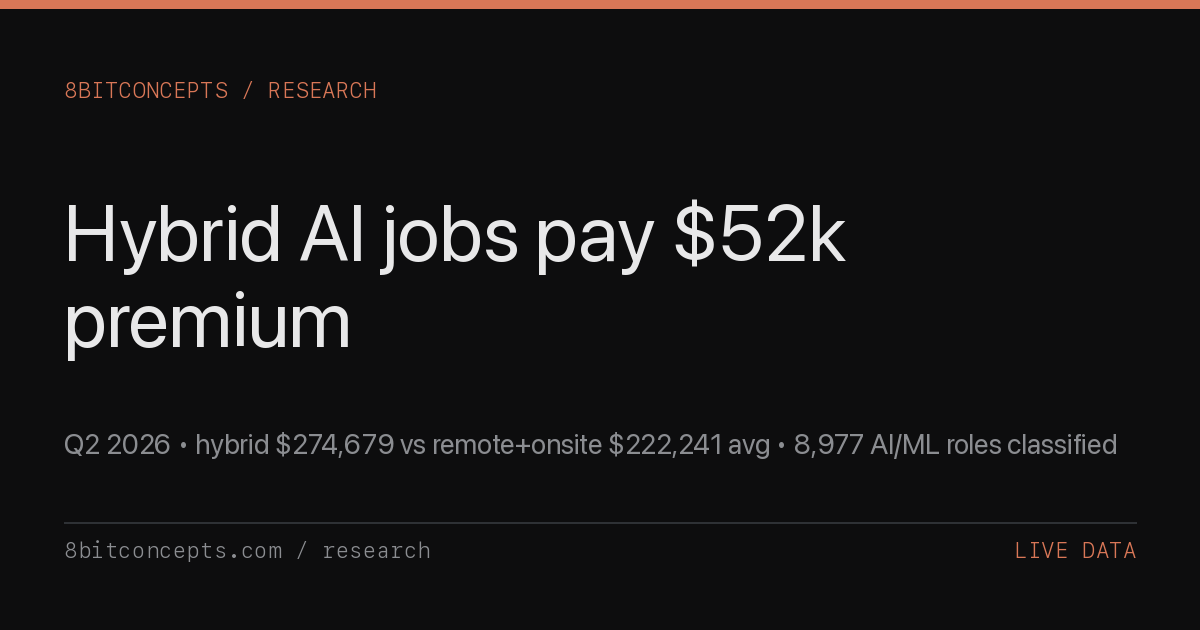
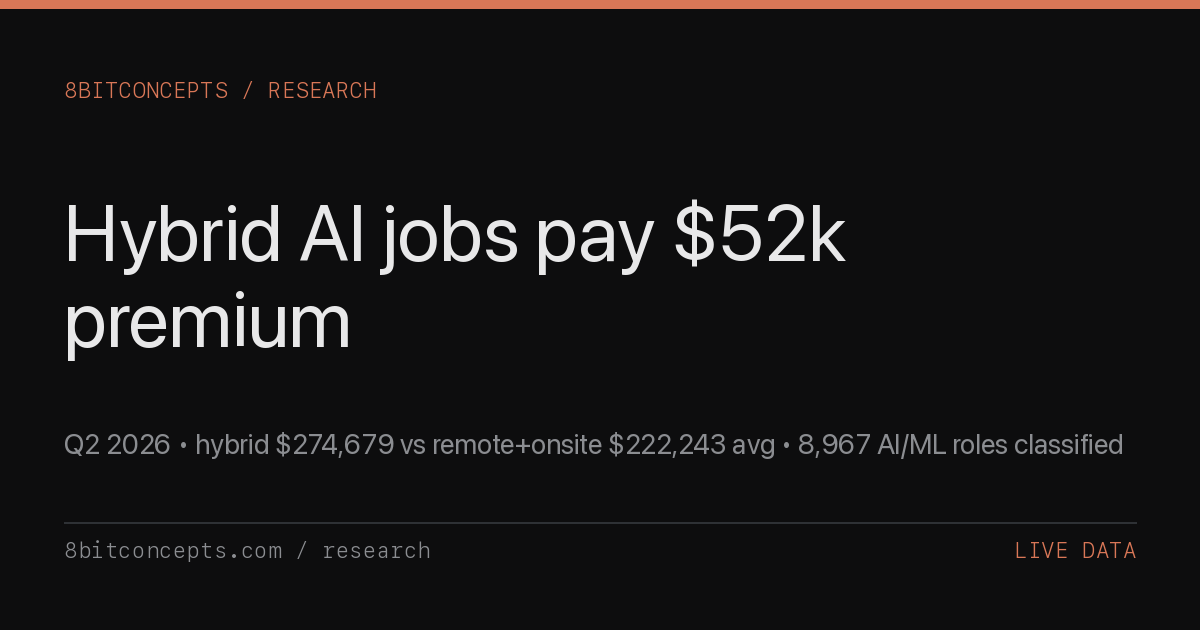
remote-vs-onsite: auto-regenerate 2026-08-24

Changed region(s): [[0.5858, 0.6937, 0.9558, 0.7238]]

diff --git a/research/q2-2026-remote-vs-onsite-ai-hiring.html b/research/q2-2026-remote-vs-onsite-ai-hiring.html
@@ -5,11 +5,11 @@
   <meta name="viewport" content="width=device-width, initial-scale=1.0" />
   <meta name="referrer" content="strict-origin-when-cross-origin" />
   <meta name="color-scheme" content="dark light" />
-  <meta name="last-updated" content="2026-08-17" />
+  <meta name="last-updated" content="2026-08-24" />
   <title>Q2 2026 Remote vs Onsite AI Hiring -- 8bitconcepts</title>
-  <meta name="description" content="Live AI engineering workplace analysis: hybrid averages $274,679, remote $224,762, onsite $220,877 across 8,977 classified roles. 53% onsite, 29% remote, 18% hybrid. Auto-regenerated weekly." />
+  <meta name="description" content="Live AI engineering workplace analysis: hybrid averages $274,679, remote $224,682, onsite $220,924 across 8,967 classified roles. 53% onsite, 29% remote, 18% hybrid. Auto-regenerated weekly." />
   <meta property="og:title" content="Q2 2026 Remote vs Onsite AI Hiring -- 8bitconcepts" />
-  <meta property="og:description" content="Hybrid AI/ML: $274,679 avg. Remote: $224,762. Onsite: $220,877. 53% of AI/ML roles still require full onsite attendance across 8,977 classified postings. Live data, 2026-08-17." />
+  <meta property="og:description" content="Hybrid AI/ML: $274,679 avg. Remote: $224,682. Onsite: $220,924. 53% of AI/ML roles still require full onsite attendance across 8,967 classified postings. Live data, 2026-08-24." />
   <meta property="og:type" content="article" />
   <meta property="og:url" content="https://8bitconcepts.com/research/q2-2026-remote-vs-onsite-ai-hiring.html" />
   <meta property="og:image" content="https://8bitconcepts.com/research/og/q2-2026-remote-vs-onsite-ai-hiring.png" />
@@ -17,7 +17,7 @@
   <meta property="og:image:height" content="630" />
   <meta name="twitter:card" content="summary_large_image" />
   <meta name="twitter:title" content="Q2 2026 Remote vs Onsite AI Hiring" />
-  <meta name="twitter:description" content="AI/ML workplace mix: hybrid $274,679 avg, remote $224,762, onsite $220,877. 53% onsite-only. 2026-08-17." />
+  <meta name="twitter:description" content="AI/ML workplace mix: hybrid $274,679 avg, remote $224,682, onsite $220,924. 53% onsite-only. 2026-08-24." />
   <meta name="twitter:image" content="https://8bitconcepts.com/research/og/q2-2026-remote-vs-onsite-ai-hiring.png" />
   <link rel="canonical" href="https://8bitconcepts.com/research/q2-2026-remote-vs-onsite-ai-hiring.html" />
   <link rel="preconnect" href="https://fonts.googleapis.com" />
@@ -478,10 +478,10 @@
     "@context": "https://schema.org",
     "@type": "Article",
     "headline": "Q2 2026 Remote vs Onsite AI Hiring",
-    "description": "Live analysis of remote vs onsite vs hybrid AI/ML engineering roles from aidevboard.com: workplace mix, salary by workplace, onsite-heavy and remote-friendly companies, and the hybrid-premium anomaly across 8,977 classified postings.",
+    "description": "Live analysis of remote vs onsite vs hybrid AI/ML engineering roles from aidevboard.com: workplace mix, salary by workplace, onsite-heavy and remote-friendly companies, and the hybrid-premium anomaly across 8,967 classified postings.",
     "url": "https://8bitconcepts.com/research/q2-2026-remote-vs-onsite-ai-hiring.html",
     "datePublished": "2026-04-17",
-    "dateModified": "2026-08-17",
+    "dateModified": "2026-08-24",
     "author": {"@type": "Organization", "name": "8bitconcepts", "url": "https://8bitconcepts.com"},
     "publisher": {"@type": "Organization", "name": "8bitconcepts", "url": "https://8bitconcepts.com"},
     "image": "https://8bitconcepts.com/research/og/q2-2026-remote-vs-onsite-ai-hiring.png",
@@ -521,10 +521,10 @@
 
     <h1>Q2 2026 Remote vs Onsite AI Hiring</h1>
 
-    <p class="subtitle">Live workplace data from 8,977 classified AI/ML engineering roles. Hybrid averages $274,679, remote $224,762, onsite $220,877. 53% of AI/ML roles still require full onsite attendance. Data pulled from <a href="https://aidevboard.com/api/v1/stats">aidevboard.com/api/v1/stats</a>.</p>
+    <p class="subtitle">Live workplace data from 8,967 classified AI/ML engineering roles. Hybrid averages $274,679, remote $224,682, onsite $220,924. 53% of AI/ML roles still require full onsite attendance. Data pulled from <a href="https://aidevboard.com/api/v1/stats">aidevboard.com/api/v1/stats</a>.</p>
 
     <div class="meta">
-      <span class="meta-date">2026-08-17</span>
+      <span class="meta-date">2026-08-24</span>
       <span class="meta-tag">Live Data</span>
       <span class="meta-read">~800 words</span>
     </div>
@@ -533,26 +533,26 @@
 
       <h2>Executive summary</h2>
 
-      <p>Hybrid AI/ML roles pay a <strong>$52k premium</strong> over the remote + onsite weighted average ($274,679 vs $222,241). Remote averages $224,762. Onsite averages $220,877. The most surprising line in the data isn't the remote-vs-onsite pay gap &mdash; it's that the middle-ground arrangement, which many companies pitched as a compromise, is where compensation actually lands highest.</p>
+      <p>Hybrid AI/ML roles pay a <strong>$52k premium</strong> over the remote + onsite weighted average ($274,679 vs $222,243). Remote averages $224,682. Onsite averages $220,924. The most surprising line in the data isn't the remote-vs-onsite pay gap &mdash; it's that the middle-ground arrangement, which many companies pitched as a compromise, is where compensation actually lands highest.</p>
 
       <div class="stat-row">
         <div class="stat-box">
           <div class="stat-num">$274,679</div>
-          <div class="stat-label">average hybrid AI/ML salary &mdash; the top band across 8,977 classified roles</div>
+          <div class="stat-label">average hybrid AI/ML salary &mdash; the top band across 8,967 classified roles</div>
         </div>
         <div class="stat-box">
           <div class="stat-num">53%</div>
-          <div class="stat-label">of roles still require full onsite attendance (4,800 of 8,977)</div>
+          <div class="stat-label">of roles still require full onsite attendance (4,793 of 8,967)</div>
         </div>
         <div class="stat-box">
-          <div class="stat-num">$224,762</div>
-          <div class="stat-label">average fully-remote AI/ML salary across 2,598 postings</div>
+          <div class="stat-num">$224,682</div>
+          <div class="stat-label">average fully-remote AI/ML salary across 2,595 postings</div>
         </div>
       </div>
 
       <h2>Top-line workplace mix</h2>
 
-      <p>Across the 8,977 AI/ML engineering postings with a workplace classification, onsite is still the dominant mode &mdash; not by a small margin. Hybrid is the smallest bucket but commands the highest average advertised salary.</p>
+      <p>Across the 8,967 AI/ML engineering postings with a workplace classification, onsite is still the dominant mode &mdash; not by a small margin. Hybrid is the smallest bucket but commands the highest average advertised salary.</p>
 
       <table class="data-table">
         <thead>
@@ -564,17 +564,17 @@
           </tr>
         </thead>
         <tbody>
-          <tr><td>Onsite</td><td class="num">4,800</td><td class="num">53.5%</td><td class="num">$220,877</td></tr>
-          <tr><td>Remote</td><td class="num">2,598</td><td class="num">28.9%</td><td class="num">$224,762</td></tr>
+          <tr><td>Onsite</td><td class="num">4,793</td><td class="num">53.5%</td><td class="num">$220,924</td></tr>
+          <tr><td>Remote</td><td class="num">2,595</td><td class="num">28.9%</td><td class="num">$224,682</td></tr>
           <tr><td>Hybrid</td><td class="num">1,579</td><td class="num">17.6%</td><td class="num">$274,679</td></tr>
         </tbody>
       </table>
 
       <h2>The hybrid premium</h2>
 
-      <p>Why does the middle option pay the most? Two factors explain most of the premium. <strong>First, seniority.</strong> Hybrid roles skew toward staff, lead, and principal bands &mdash; the levels where companies want engineers in the office for architecture discussions and design reviews but accept that 30+ year-old senior engineers won't relocate full-time. The salary endpoint reports a single weighted average of $232,691 across all salary-disclosed roles, and the hybrid band sits <strong>$+41k</strong> above that global average &mdash; that's not a remote-work discount, it's a seniority mix.</p>
+      <p>Why does the middle option pay the most? Two factors explain most of the premium. <strong>First, seniority.</strong> Hybrid roles skew toward staff, lead, and principal bands &mdash; the levels where companies want engineers in the office for architecture discussions and design reviews but accept that 30+ year-old senior engineers won't relocate full-time. The salary endpoint reports a single weighted average of $232,716 across all salary-disclosed roles, and the hybrid band sits <strong>$+41k</strong> above that global average &mdash; that's not a remote-work discount, it's a seniority mix.</p>
 
-      <p><strong>Second, geography.</strong> Hybrid postings anchor to a specific metro (usually San Francisco, New York, or Seattle) and inherit that metro's pay band. Remote postings in the same index compete with distributed talent from lower-cost geographies and from candidates who've already priced remote work into their expectations. The $224,762 remote average still out-earns most non-AI engineering roles, but it reflects a broader supply pool than the $274,679 hybrid average does. The practical read: hybrid is where AI companies are paying SF+NYC premiums <em>plus</em> demanding most-week attendance. It's the most expensive arrangement to hire into because it selects the most constrained candidate pool.</p>
+      <p><strong>Second, geography.</strong> Hybrid postings anchor to a specific metro (usually San Francisco, New York, or Seattle) and inherit that metro's pay band. Remote postings in the same index compete with distributed talent from lower-cost geographies and from candidates who've already priced remote work into their expectations. The $224,682 remote average still out-earns most non-AI engineering roles, but it reflects a broader supply pool than the $274,679 hybrid average does. The practical read: hybrid is where AI companies are paying SF+NYC premiums <em>plus</em> demanding most-week attendance. It's the most expensive arrangement to hire into because it selects the most constrained candidate pool.</p>
 
       <div class="callout">
         <p>The industry lore says remote kills the pay premium. The live index says otherwise: the middle-ground workplace arrangement wins on absolute dollars, and it wins because it concentrates SF/NYC metros and staff+ seniority into the same candidate pool.</p>
@@ -638,12 +638,12 @@
         <div class="bar-row">
           <div class="bar-label">Onsite</div>
           <div class="bar-wrap"><div class="bar" style="width:80.4%;"></div></div>
-          <div class="bar-value">$220,877</div>
+          <div class="bar-value">$220,924</div>
         </div>
         <div class="bar-row">
           <div class="bar-label">Remote</div>
           <div class="bar-wrap"><div class="bar" style="width:81.8%;"></div></div>
-          <div class="bar-value">$224,762</div>
+          <div class="bar-value">$224,682</div>
         </div>
         <div class="bar-row">
           <div class="bar-label">Hybrid</div>
@@ -654,15 +654,15 @@
 
       <h2>Regional bias</h2>
 
-      <p><strong>Regional bias caveat.</strong> The AI Dev Jobs index over-represents US-based postings. US pay-transparency laws (California, New York, Washington, Colorado) drive salary disclosure, so US postings are weighted more heavily in the salary averages than in the posting counts. European and APAC AI/ML roles are present in the index but many publish salary as &quot;competitive&quot; and drop out of the $3,484-posting salary-disclosed subset. Remote postings in particular often advertise a US-only salary range even when they're open globally &mdash; interpret the <code>$</code> figures as US-anchored.</p>
+      <p><strong>Regional bias caveat.</strong> The AI Dev Jobs index over-represents US-based postings. US pay-transparency laws (California, New York, Washington, Colorado) drive salary disclosure, so US postings are weighted more heavily in the salary averages than in the posting counts. European and APAC AI/ML roles are present in the index but many publish salary as &quot;competitive&quot; and drop out of the $3,480-posting salary-disclosed subset. Remote postings in particular often advertise a US-only salary range even when they're open globally &mdash; interpret the <code>$</code> figures as US-anchored.</p>
 
       <h2>Practical takeaway</h2>
 
-      <p><strong>If you're choosing what to apply for.</strong> The headline-grabbing remote-vs-onsite framing is the wrong axis. Hybrid is the highest-paying band because it picks up SF/NYC salary floors <em>plus</em> senior/staff+ level mix. If you have the flexibility to be in-office 2-3 days a week in a major metro, hybrid is where the dollars land. If you need fully remote, target the remote-friendly companies in the table above &mdash; they set the remote floor higher than the $224,762 index average. If you're early-career, onsite roles at robotics, autonomous-vehicle, and frontier labs are where the 53% onsite share concentrates &mdash; lean in, physical-AI work is where onsite still pays real premiums.</p>
+      <p><strong>If you're choosing what to apply for.</strong> The headline-grabbing remote-vs-onsite framing is the wrong axis. Hybrid is the highest-paying band because it picks up SF/NYC salary floors <em>plus</em> senior/staff+ level mix. If you have the flexibility to be in-office 2-3 days a week in a major metro, hybrid is where the dollars land. If you need fully remote, target the remote-friendly companies in the table above &mdash; they set the remote floor higher than the $224,682 index average. If you're early-career, onsite roles at robotics, autonomous-vehicle, and frontier labs are where the 53% onsite share concentrates &mdash; lean in, physical-AI work is where onsite still pays real premiums.</p>
 
       <h2>Methodology</h2>
 
-      <p>Generated from the live <a href="https://aidevboard.com/api/v1/stats">aidevboard.com/api/v1/stats</a> endpoint (public, unauthenticated) plus a paginated walk of <a href="https://aidevboard.com/api/v1/jobs">/api/v1/jobs</a> for per-company workplace aggregation. Index scrapes 560+ ATS sources on a daily cron and deduplicates by (company, title, location). The <code>workplace</code> field is classified by a rules-based parser from job-title + description + location signals; edge cases ("hybrid, 3 days", "flexible", "in-person preferred") are normalized into the three canonical buckets. Of 8,977 roles in the index, 8,977 have a non-empty workplace classification; the rest are silently excluded from this analysis. Salary averages use employer-advertised midpoints from the 3,484-posting salary-disclosed subset. This page auto-regenerates weekly (Mon 9:00 am PT).</p>
+      <p>Generated from the live <a href="https://aidevboard.com/api/v1/stats">aidevboard.com/api/v1/stats</a> endpoint (public, unauthenticated) plus a paginated walk of <a href="https://aidevboard.com/api/v1/jobs">/api/v1/jobs</a> for per-company workplace aggregation. Index scrapes 560+ ATS sources on a daily cron and deduplicates by (company, title, location). The <code>workplace</code> field is classified by a rules-based parser from job-title + description + location signals; edge cases ("hybrid, 3 days", "flexible", "in-person preferred") are normalized into the three canonical buckets. Of 8,967 roles in the index, 8,967 have a non-empty workplace classification; the rest are silently excluded from this analysis. Salary averages use employer-advertised midpoints from the 3,480-posting salary-disclosed subset. This page auto-regenerates weekly (Mon 9:00 am PT).</p>
 
       <p><strong>Download raw data:</strong> The workplace-by-salary dataset is mirrored as a public gist &mdash; <a href="https://gist.githubusercontent.com/unitedideas/680cc4c1d11e090814bdf132e155d6d1/raw/ai-workplace.csv">CSV</a> &middot; <a href="https://gist.githubusercontent.com/unitedideas/680cc4c1d11e090814bdf132e155d6d1/raw/ai-workplace.md">Markdown</a> &middot; <a href="https://gist.github.com/unitedideas/680cc4c1d11e090814bdf132e155d6d1">view on GitHub</a>. Auto-updated every weekly regeneration; canonical raw URLs are stable across revisions.</p>
 
@@ -712,7 +712,7 @@
     <div class="footnotes">
       <h4>Sources</h4>
       <ol>
-        <li>AI Dev Jobs &mdash; <a href="https://aidevboard.com/api/v1/stats">/api/v1/stats</a>, pulled 2026-08-17T16:00:01Z. Public unauthenticated endpoint.</li>
+        <li>AI Dev Jobs &mdash; <a href="https://aidevboard.com/api/v1/stats">/api/v1/stats</a>, pulled 2026-08-24T16:00:01Z. Public unauthenticated endpoint.</li>
         <li>AI Dev Jobs &mdash; <a href="https://aidevboard.com/api/v1/jobs">/api/v1/jobs</a>, paginated walk for per-company workplace aggregation.</li>
         <li>Workplace classification is derived from job-title + description + location signals by a rules-based parser. Edge cases ("hybrid, 3 days", "flexible", "in-person preferred") are normalized into the three canonical buckets onsite / remote / hybrid.</li>
         <li>Salary figures are employer-advertised midpoints from public ATS feeds. US pay-transparency laws drive the disclosure rates so the dataset over-represents California, New York, Washington, and Colorado.</li>
